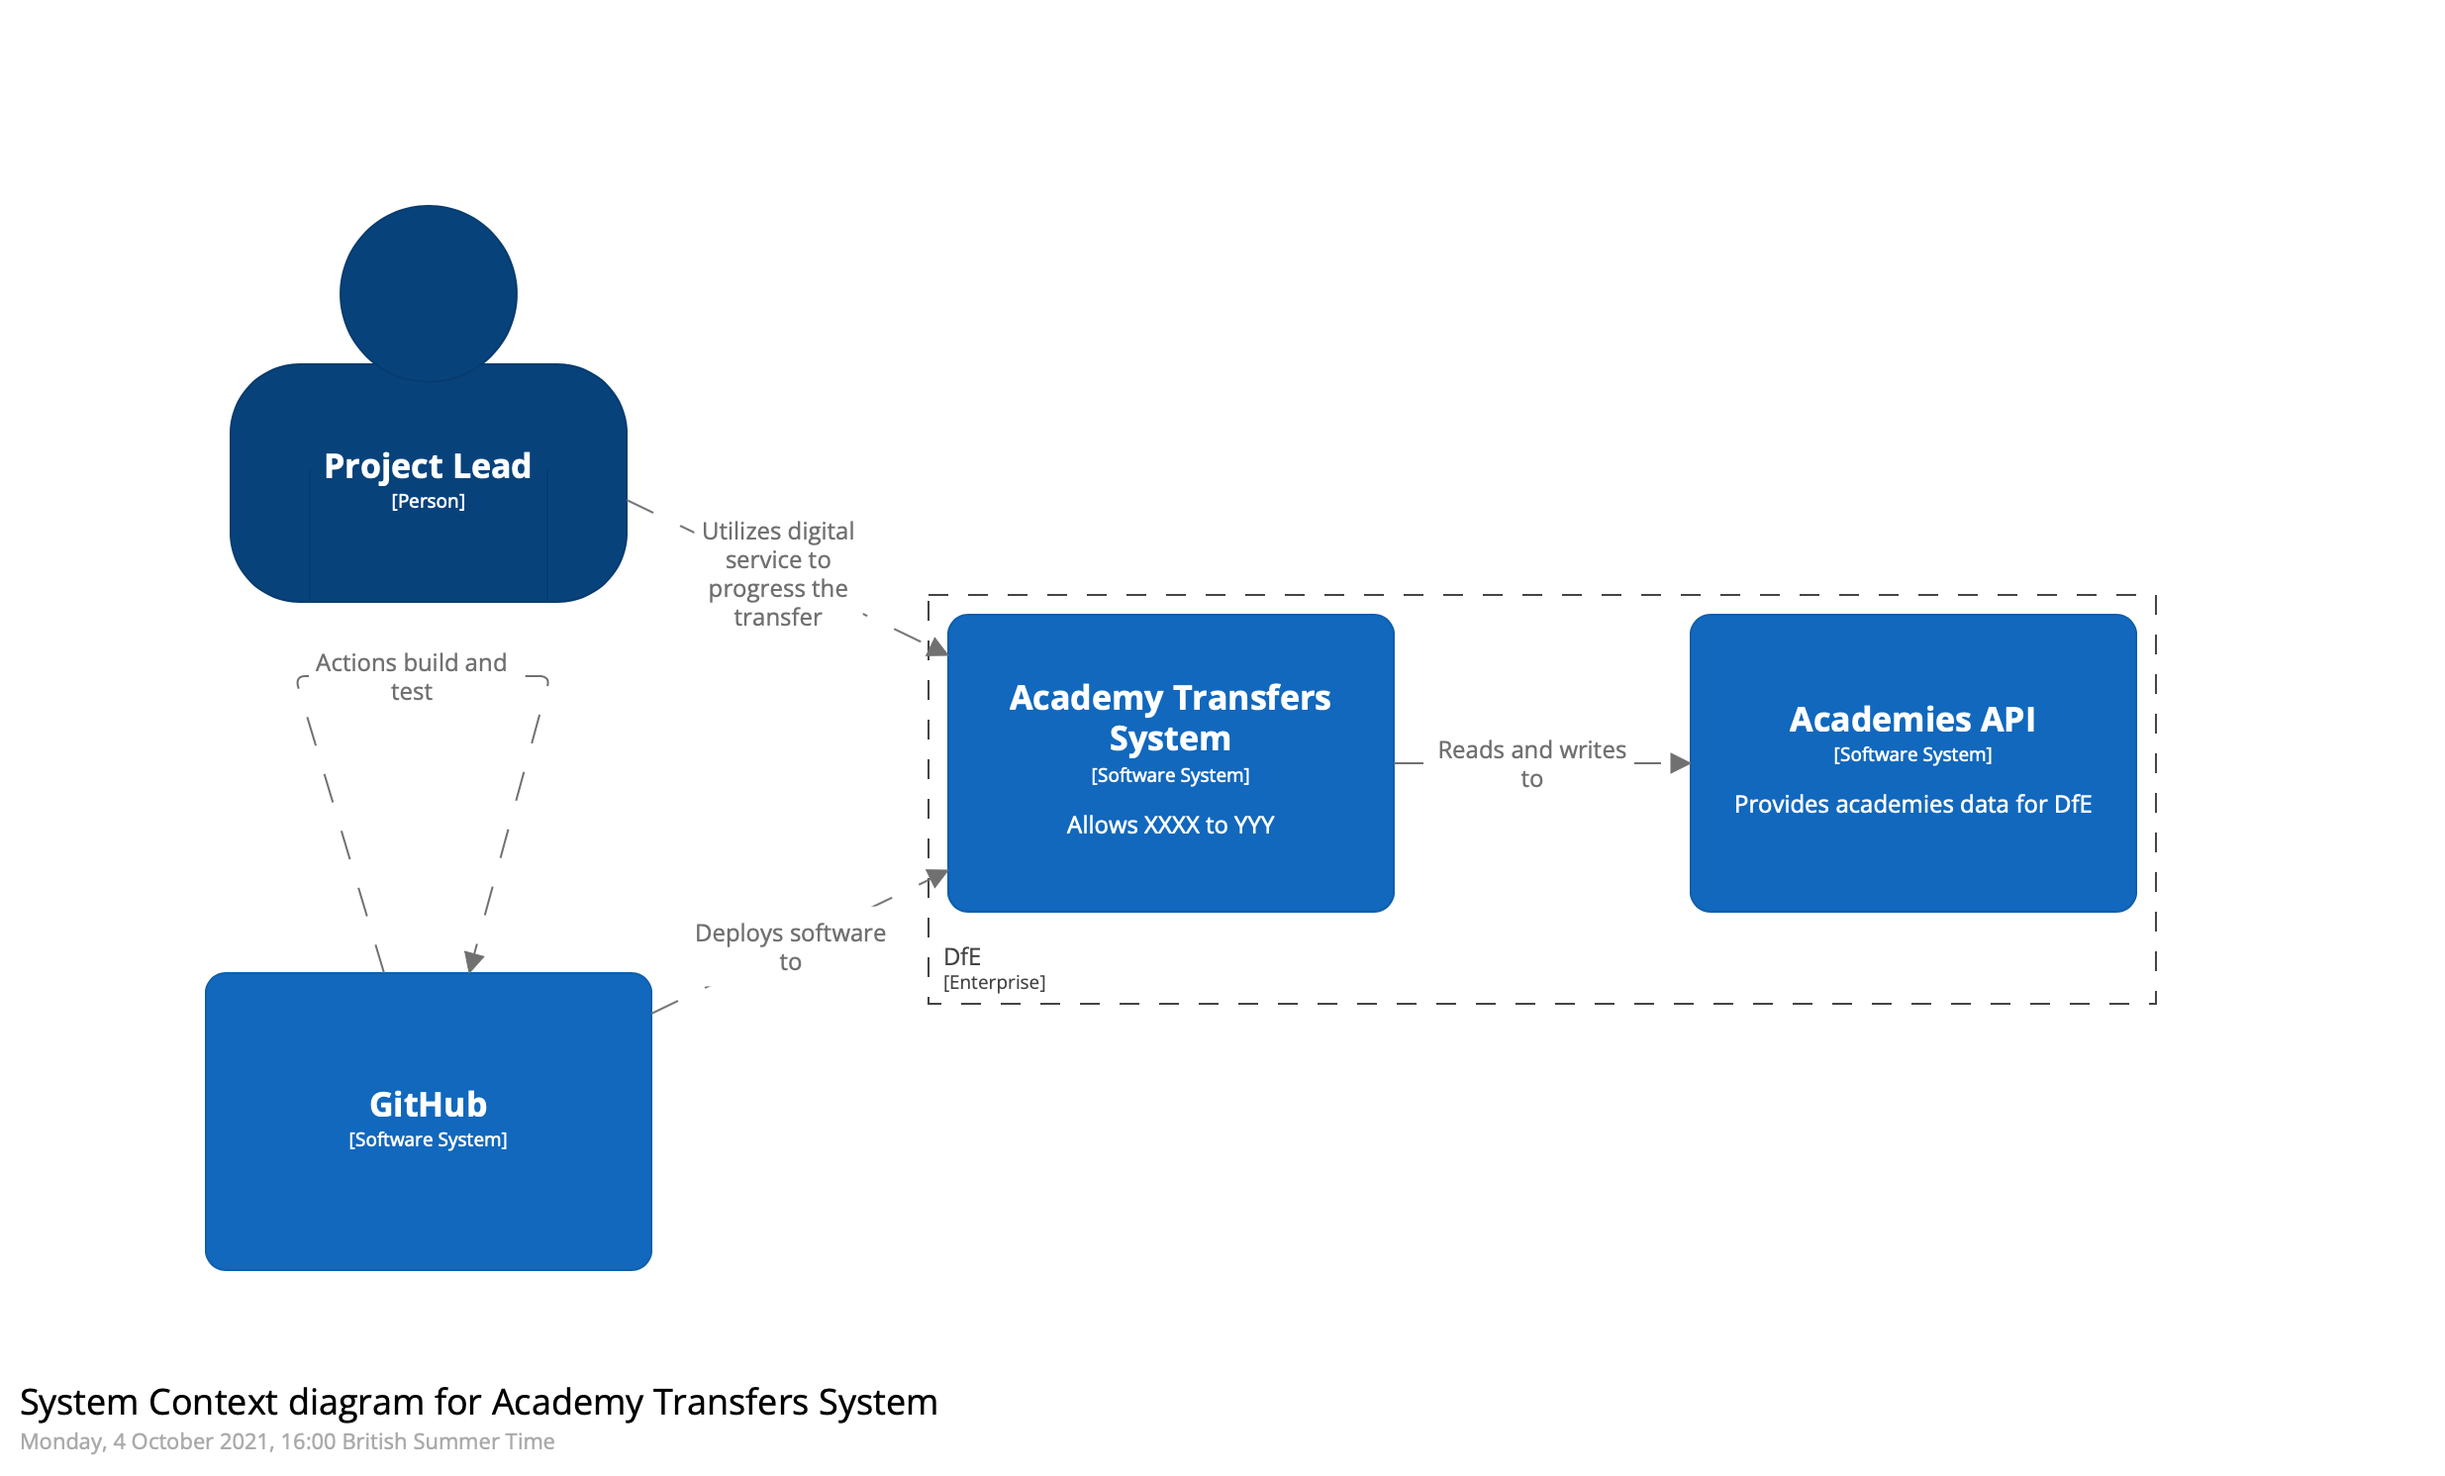
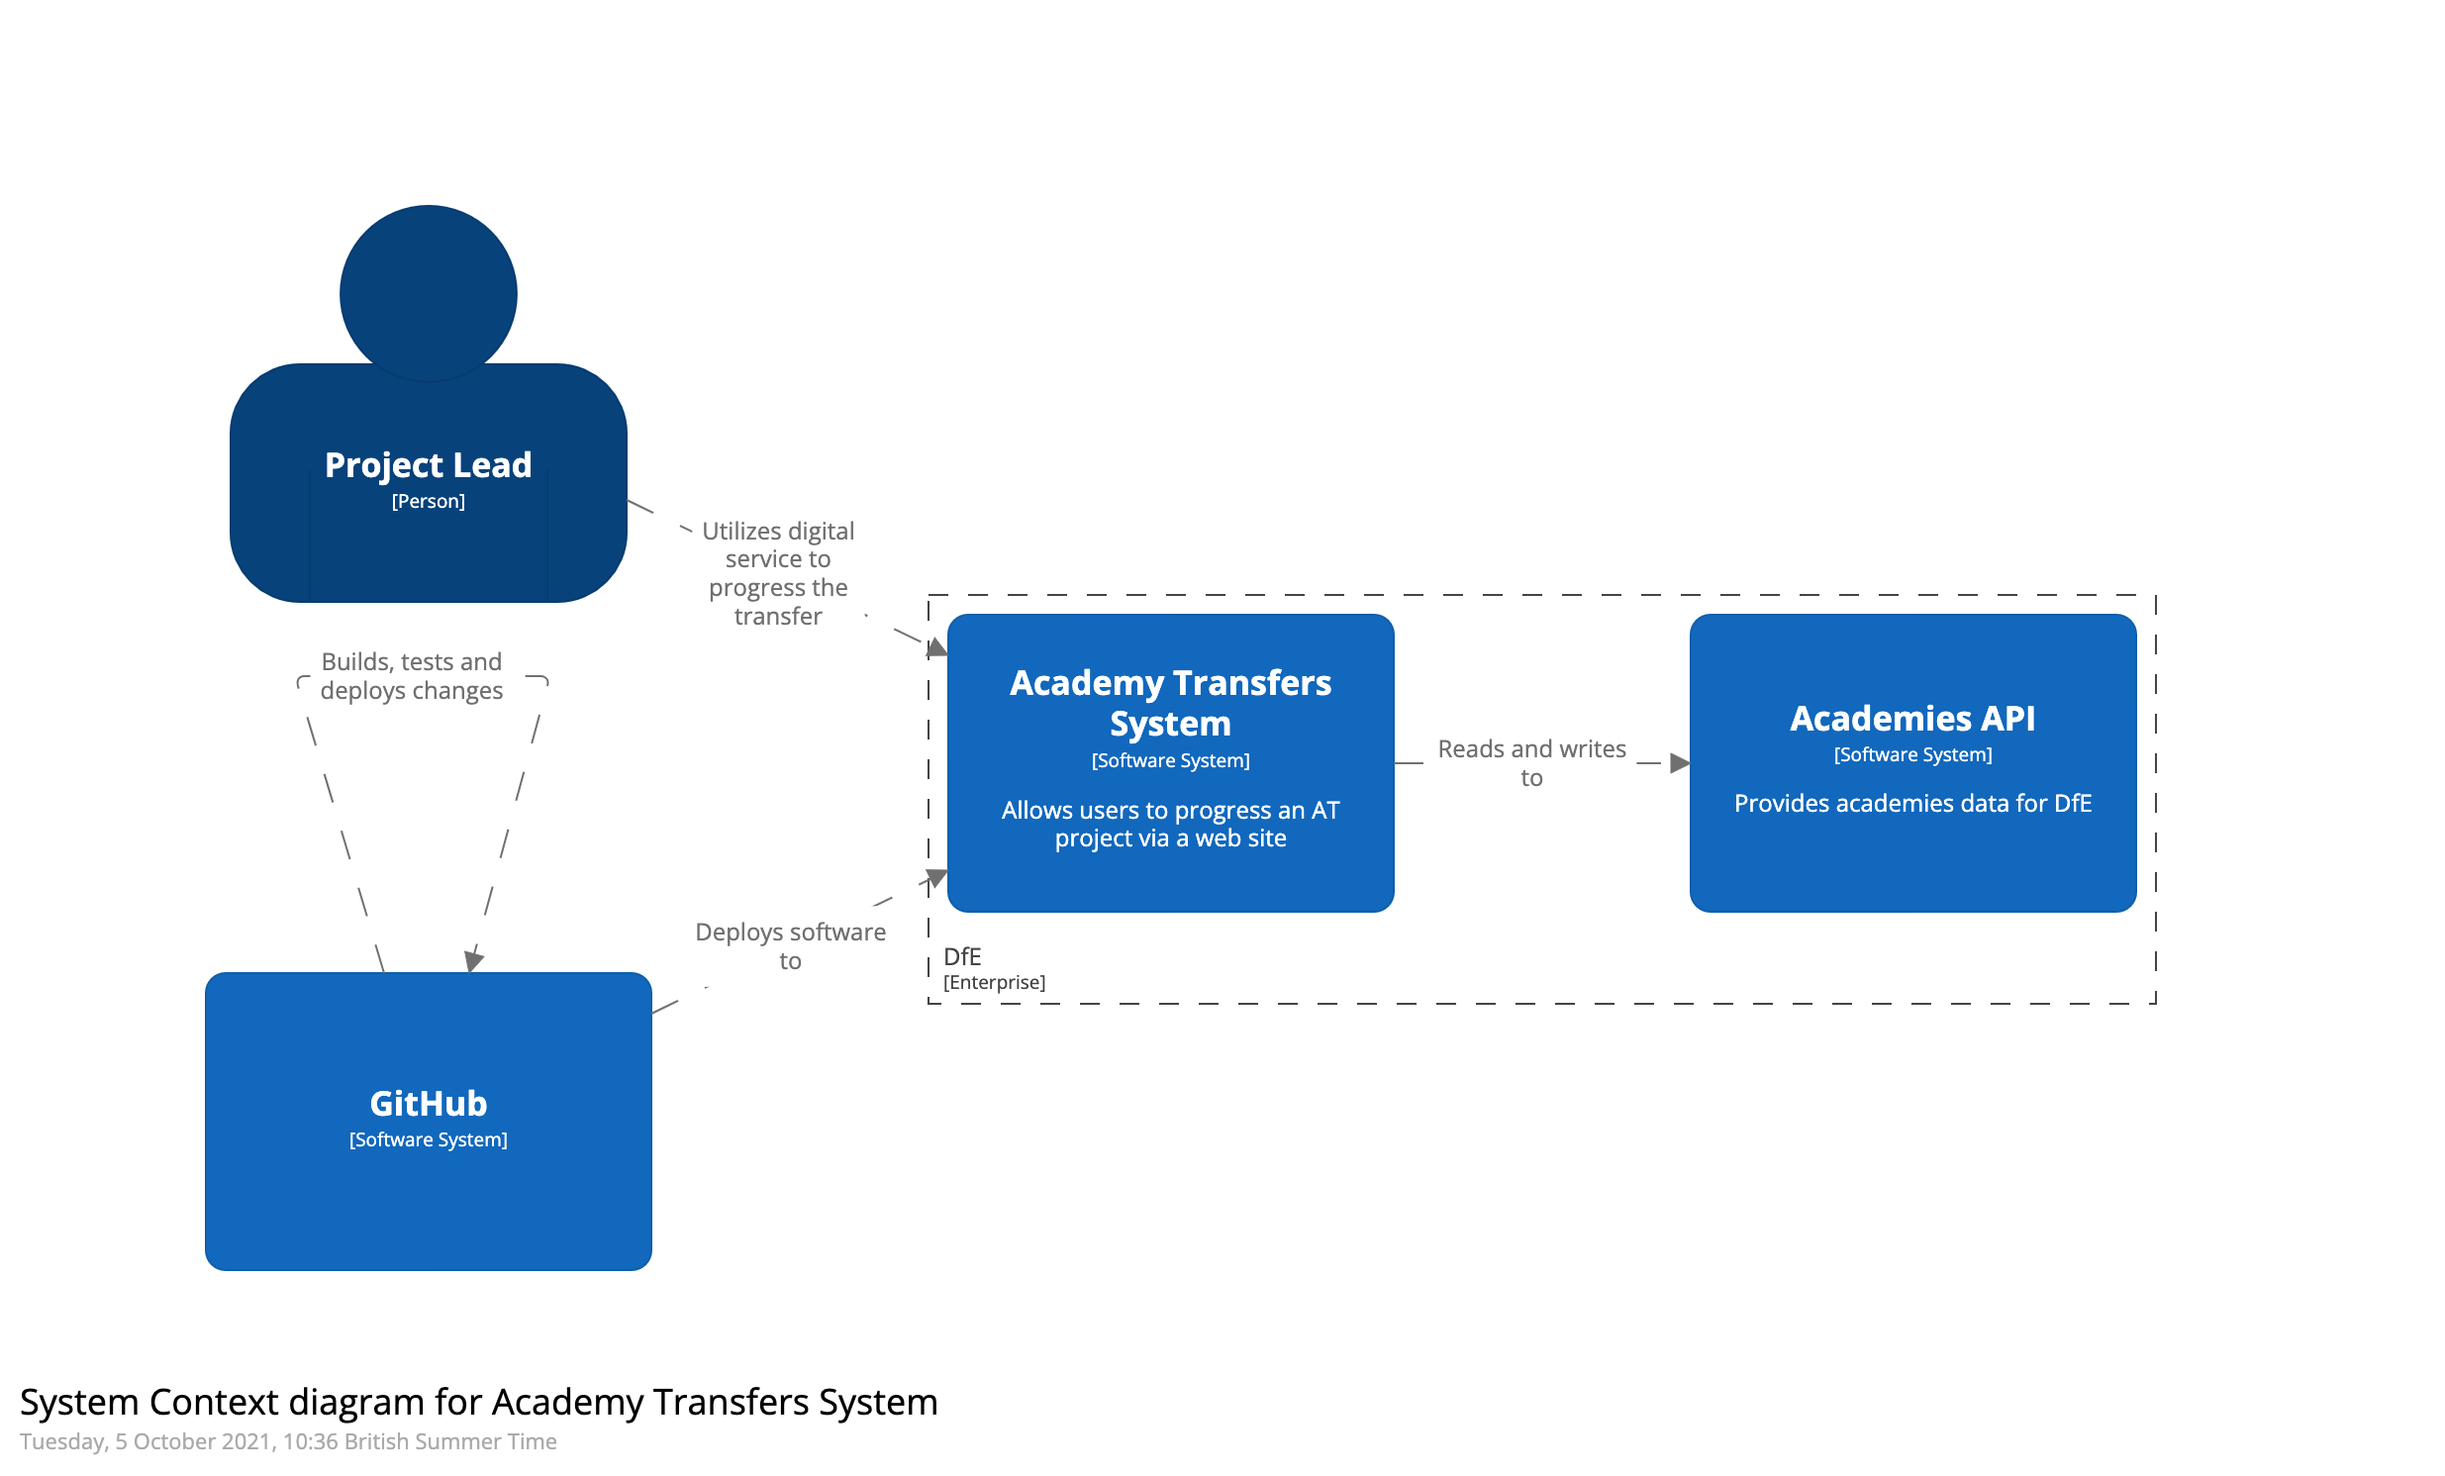
Adds C4 diagrams as code and instructions for generating them.

diff --git a/source-c4-diagrams/README.md b/source-c4-diagrams/README.md
@@ -1,0 +1,14 @@
+# C4 Diagrams Source Code (DSL)
+
+This directory contains the diagrams-as-code files used to create the C4 diagrams within the technical documentation site. The [structurizr.com](https://structurizr.com/) website provides a SaaS offering to generate diagrams from this code, but there are also plugins available for various IDEs such as VSCode.
+
+## Generating the diagrams
+
+### Manual steps
+
+1. Sign up for a Free Tier Cloud account at [structurizr.com](https://structurizr.com/).
+2. Create a workspace and navigate to the 'DSL editor'.
+3. Paste the code from the `.dsl` file in to the editor, verify it renders, Save the workspace.
+4. Navigate back to the workspace overview, then to the 'Diagram viewer'.
+5. Export the diagram to PNG (floppy disc icon).
+6. Place within the correct folder in this repository for the C4 layer `/source/architecture/<layer>/images`, over-writing the existing file(s) there.

diff --git a/README.md b/README.md
@@ -11,7 +11,7 @@ To use the Tech Docs Template you need:
 - [Ruby][install-ruby]
 - [Middleman][install-middleman]
 
-## Making changes
+## Making changes to the copy
 
 To make changes to the documentation for this website, edit files in the `source` folder of this repository.
 
@@ -22,6 +22,10 @@ You can add content by editing the `.html.md.erb` files. These files support con
 - Ruby
 
 👉  You can use Markdown and HTML to [generate different content types][example-content] and [Ruby partials to manage content][partials].
+
+## Making changes to the C4 diagrams
+
+See: [README.md](./source-c4-diagrams/README.md).
 
 ## Preview your changes locally
 
